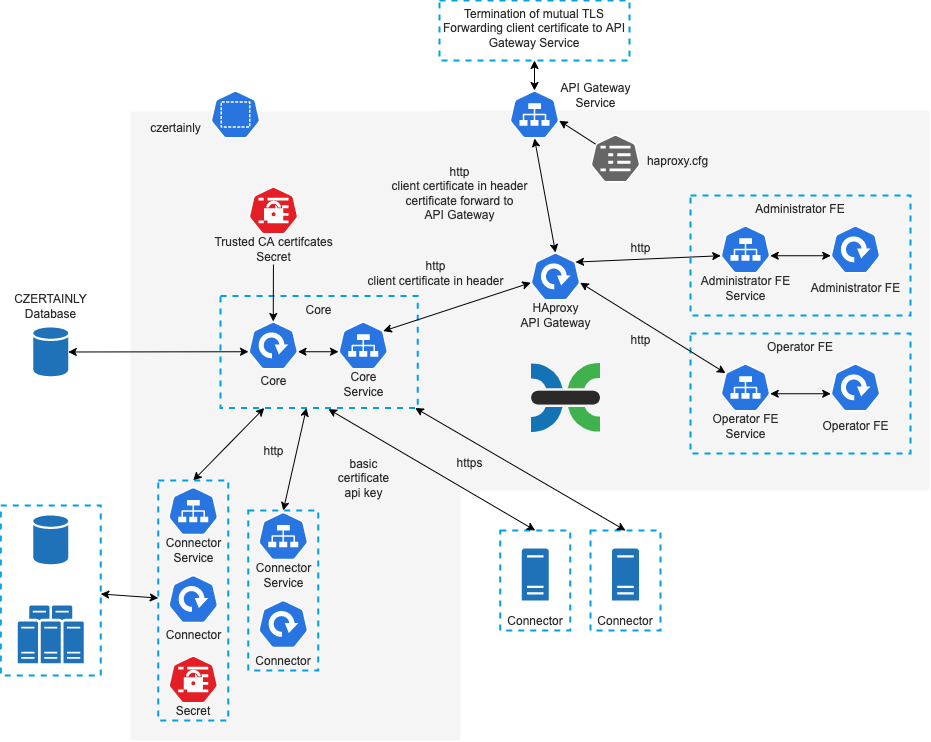
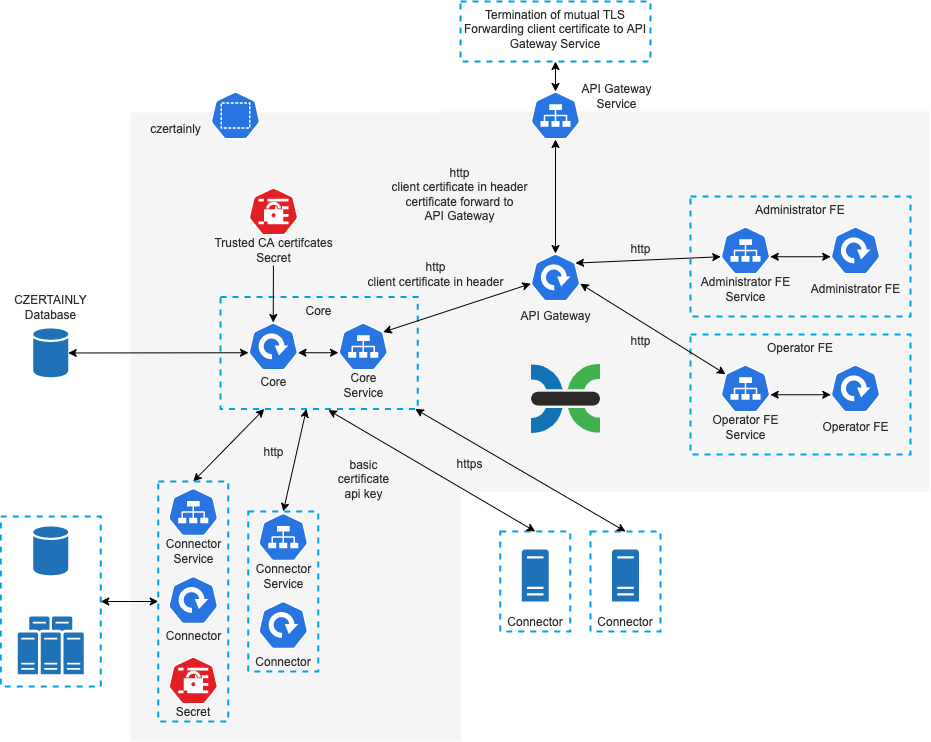
Added support for the Kong API Gateway

diff --git a/docs/03-installation-guide/03-deployment/02-deployment-kubernetes/02-api-gateway/01-kong-gateway.md b/docs/03-installation-guide/03-deployment/02-deployment-kubernetes/02-api-gateway/01-kong-gateway.md
@@ -1,0 +1,141 @@
+# Kong Gateway
+
+`Kong` is a scalable, open source API Platform (also known as an API Gateway or API Middleware).
+
+The `Kong` is used as a simple API Gateway to the platform. The `Kong` is configured to forward the request to the platform. You can configure and run it using the following guide.
+
+It contains the following manifests:
+
+| Manifest | Description |
+|------|-------------|
+| `api-gateway-configmap.yaml` | `ConfigMap` holding the `kong.yml` declarative configuration |
+| `api-gateway-deployment.yaml` | `Deployment` of the API Gateway |
+| `api-gateway-service.yaml` | `Service` to create access for the API Gateway |
+
+## `api-gateway-configmap.yaml`
+
+```yaml
+apiVersion: v1
+kind: ConfigMap
+metadata:
+  name: api-gateway-configmap
+  namespace: czertainly
+data:
+  kong.yml: |
+    _format_version: "2.1"
+    _transform: true
+
+    services:
+    - name: czertainly-core
+      host: czertainly-core-service
+      port: 8080
+      protocol: http
+      routes:
+      - name: czertainly-core_route
+        strip_path: false
+        paths:
+        - /api*
+      plugins:
+      - name: request-transformer
+        config:
+          rename:
+            headers:
+            - SSL_CLIENT_CERT:X-APP-CERTIFICATE
+    - name: czertainly-fe-administrator
+      host: czertainly-fe-administrator-service
+      port: 80
+      protocol: http
+      path: /
+      routes:
+      - name: czertainly-fe-administrator_route
+        strip_path: false
+        paths:
+        - /administrator*
+    - name: czertainly-fe-operator
+      host: czertainly-fe-operator-service
+      port: 80
+      protocol: http
+      routes:
+      - name: czertainly-fe-operator_route
+        strip_path: false
+        paths:
+        - /operator*
+```
+
+## `api-gateway-deployment.yaml`
+
+```yaml
+apiVersion: apps/v1
+kind: Deployment
+metadata:
+  name: api-gateway-deployment
+  namespace: czertainly
+  labels:
+    app: api-gateway
+spec:
+  replicas: 1
+  revisionHistoryLimit: 3
+  selector:
+    matchLabels:
+      app: api-gateway
+  template:
+    metadata:
+      labels:
+        app: api-gateway
+    spec:
+      containers:
+        - name: api-gateway
+          image: kong:2.7.1-alpine
+          env:
+            - name: KONG_DATABASE
+              value: "off"
+            - name: KONG_PROXY_ACCESS_LOG
+              value: "/dev/stdout"
+            - name: KONG_ADMIN_ACCESS_LOG
+              value: "/dev/stdout"
+            - name: KONG_PROXY_ERROR_LOG
+              value: "/dev/stderr"
+            - name: KONG_ADMIN_ERROR_LOG
+              value: "/dev/stderr"
+            - name: KONG_ADMIN_LISTEN
+              value: "0.0.0.0:8001, 0.0.0.0:8444 ssl"
+            - name: KONG_DECLARATIVE_CONFIG
+              value: "/kong/declarative/kong.yml"
+          ports:
+            - containerPort: 8080
+              name: consumer-http
+            - containerPort: 8443
+              name: consumer-https
+            - containerPort: 8001
+              name: admin-http
+            - containerPort: 8444
+              name: admin-https
+          volumeMounts:
+            - name: api-gateway-config-volume
+              mountPath: /kong/declarative
+      volumes:
+        - name: api-gateway-config-volume
+          configMap:
+            name: api-gateway-configmap
+            items:
+              - key: kong.yml
+                path: kong.yml
+```
+
+## `api-gateway-service.yaml`
+
+```yaml
+apiVersion: v1
+kind: Service
+metadata:
+  labels:
+    app: api-gateway
+  name: api-gateway-service
+  namespace: czertainly
+spec:
+  ports:
+    - port: 8000
+      protocol: "TCP"
+  selector:
+    app: api-gateway
+```

diff --git a/docs/03-installation-guide/03-deployment/02-deployment-kubernetes/02-api-gateway/02-haproxy-gateway.md b/docs/03-installation-guide/03-deployment/02-deployment-kubernetes/02-api-gateway/02-haproxy-gateway.md
@@ -1,12 +1,14 @@
-# API Gateway
+# HAProxy Gateway
 
-The `HA Proxy` is used as a simple API Gateway to the platform. The `HA Proxy` is configured to forward the request to the platform.
+`HAProxy` is a free, very fast and reliable reverse-proxy offering high availability, load balancing, and proxying for TCP and HTTP-based applications.
+
+The `HAProxy` is used as a simple API Gateway to the platform. The `HAProxy` is configured to forward the request to the platform. You can configure and run it using the following guide.
 
 It contains the following manifests:
 
 | Manifest | Description |
 |------|-------------|
-| `api-gateway-configmap.yaml` | `ConfigMap` holding the `haproxy.cfg` |
+| `api-gateway-configmap.yaml` | `ConfigMap` holding the `haproxy.cfg` configuration |
 | `api-gateway-deployment.yaml` | `Deployment` of the API Gateway |
 | `api-gateway-service.yaml` | `Service` to create access for the API Gateway |
 

diff --git a/docs/03-installation-guide/03-deployment/02-deployment-kubernetes/01-overview.md b/docs/03-installation-guide/03-deployment/02-deployment-kubernetes/01-overview.md
@@ -16,7 +16,7 @@ The following table explains the deployment parts and provides references for fu
 
 | Part | Description | Reference |
 | ---- | ----------- | --------- |
-| **API Gateway** | Entry point for the platform | [API Gateway](api-gateway) |
+| **API Gateway** | Entry point for the platform. API gateway ensures correct routing and validation of the requests coming to the platform. Any API gateway can be used. In the references, you can find examples how to configure and run popular API gateways for the platform. | <ul> <li>[Kong](api-gateway/kong-gateway)</li> <li>[HAProxy](api-gateway/haproxy-gateway)</li> </ul> |
 | **Core** | The Core of the platform | [Core](core) |
 | **Administrator Web** (optional) | Administrator Web UI| [Administrator Web](administrator-web) |
 | **Operator Web** (optional) | Operator Web UI | [Operator Web](operator-web) |
